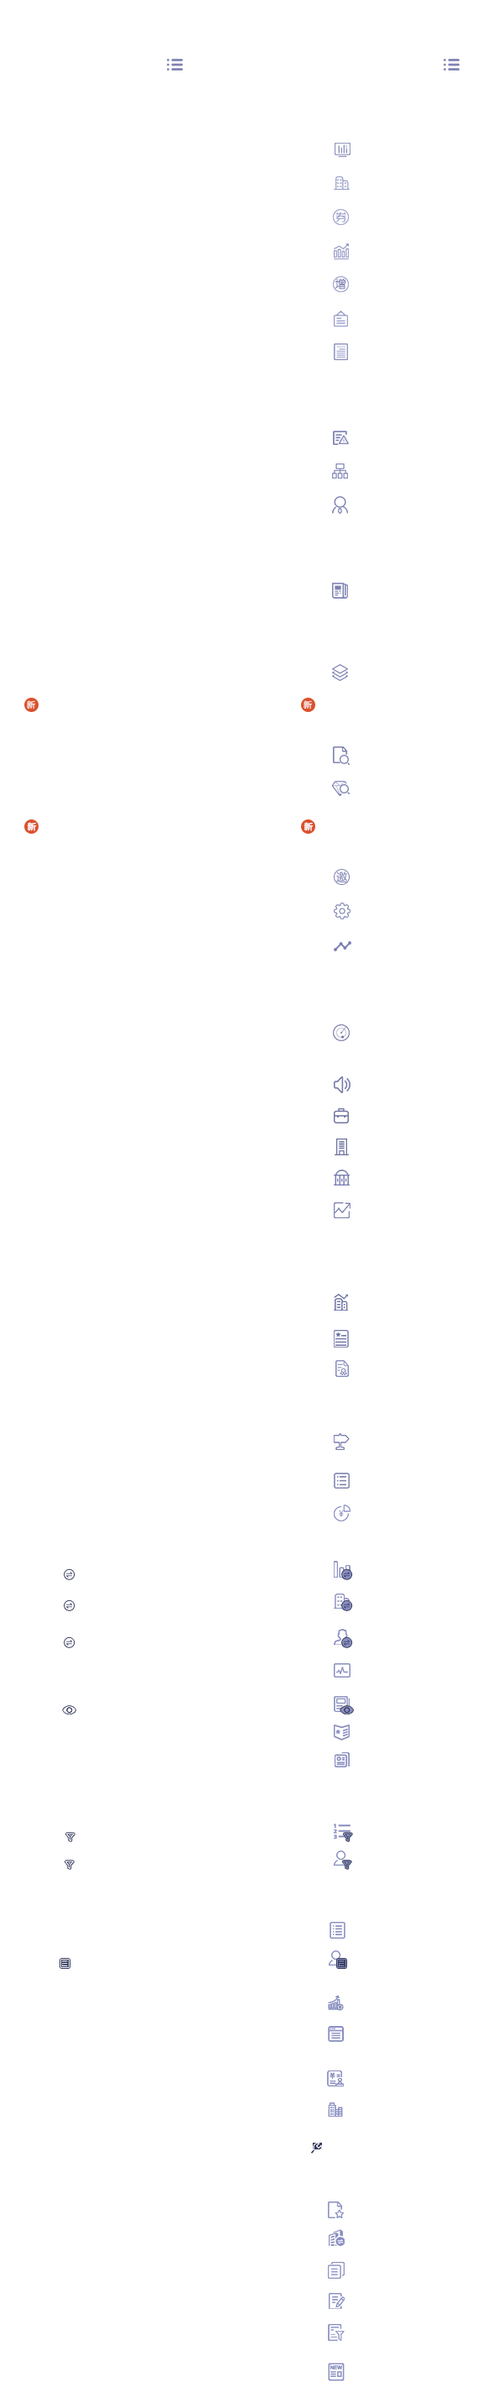
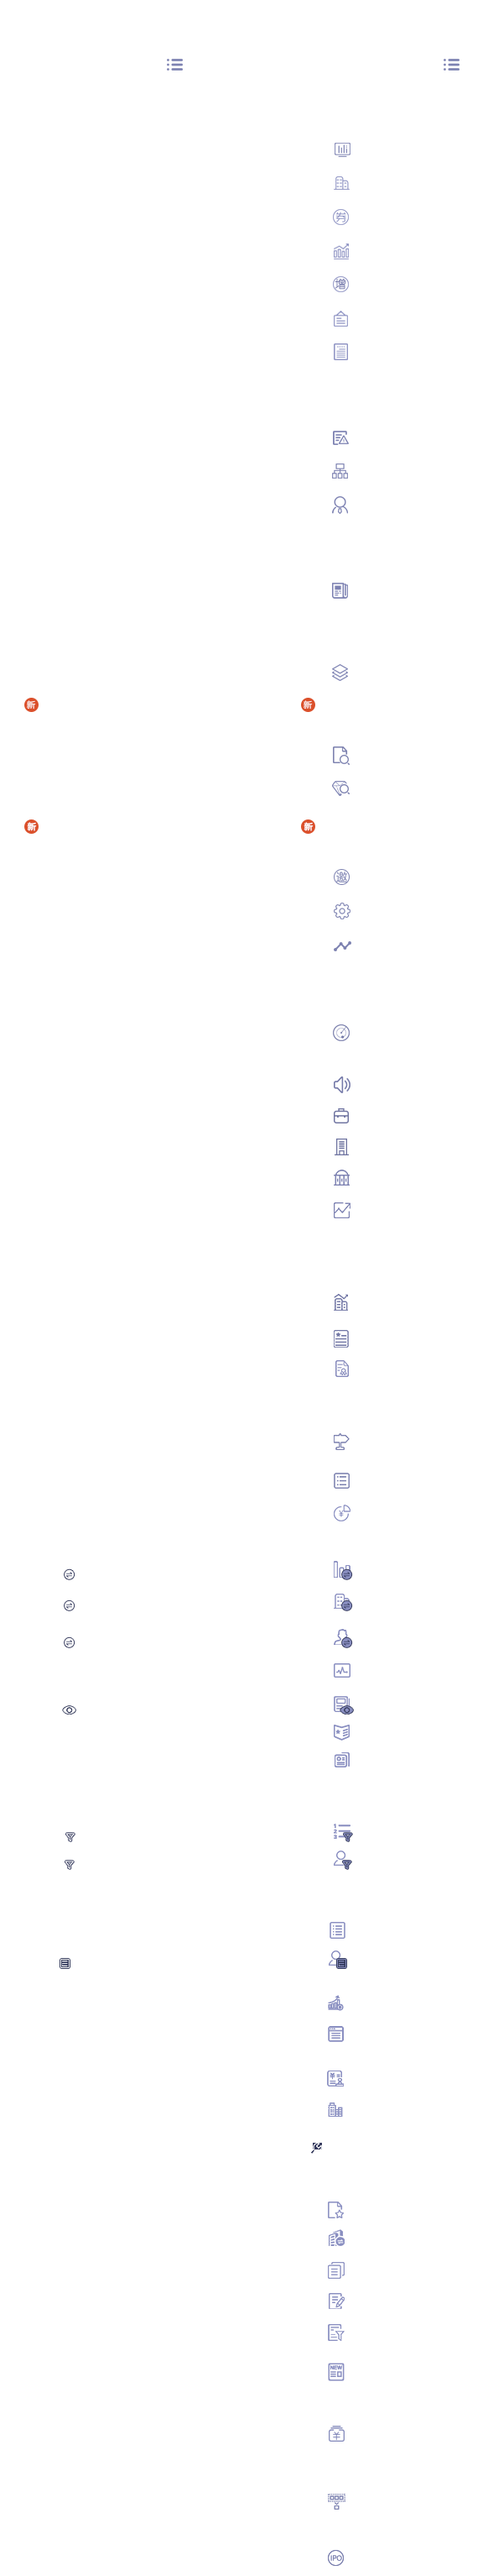
修改bug 样式

diff --git a/assets/admin/layout/css/custom.css b/assets/admin/layout/css/custom.css
@@ -188,6 +188,7 @@ input::-webkit-input-safebox-button {
 	top: 30px;
 	width:170px;
 }
+
 .codeList{left: 160px;}
 .searchList{
 	white-space:nowrap;
@@ -985,17 +986,17 @@ caption{
 }
 /*8*/
 .page-sidebar .page-sidebar-menu .sub-menu > li > a.menuTwo08{
-	background: url(../img/allicon.png) -334px -505px no-repeat;
+	background: url(../img/allicon.png) -329px -2881px no-repeat;
 }
 .page-sidebar .page-sidebar-menu .sub-menu > li.active > a.menuTwo08{
-	background:#4b4f78 url(../img/allicon.png) -4px -505px no-repeat;
+	background:#4b4f78 url(../img/allicon.png) 2px -2881px no-repeat;
 }
 .page-sidebar .page-sidebar-menu .sub-menu > li:hover a.menuTwo08{
-	background:#4b4f78 url(../img/allicon.png) -4px -505px no-repeat;
+	background:#4b4f78 url(../img/allicon.png) 2px -2881px no-repeat;
 }
 .page-sidebar .page-sidebar-menu .sub-menu > li.active:hover a.menuTwo08
 {
-	background:#4b4f78 url(../img/allicon.png) -4px -505px no-repeat;
+	background:#4b4f78 url(../img/allicon.png) 2px -2881px no-repeat;
 }
 /*9*/
 .page-sidebar .page-sidebar-menu .sub-menu > li > a.menuTwo09{
@@ -1493,6 +1494,32 @@ caption{
 .page-sidebar .page-sidebar-menu .sub-menu > li.active:hover a.myCharts{
 	background:#4b4f78 url(../img/allicon.png) -4px -2317px no-repeat;
 }
+/*并购事件*/
+.page-sidebar .page-sidebar-menu .sub-menu > li > a.mergerEvent{
+	background: url(../img/allicon.png) -333px -2963px no-repeat;
+}
+.page-sidebar .page-sidebar-menu .sub-menu > li.active > a.mergerEvent{
+	background:#4b4f78 url(../img/allicon.png) -3px -2963px no-repeat;
+}
+.page-sidebar .page-sidebar-menu .sub-menu > li:hover a.mergerEvent{
+	background:#4b4f78 url(../img/allicon.png) -3px -2963px no-repeat;
+}
+.page-sidebar .page-sidebar-menu .sub-menu > li.active:hover a.mergerEvent{
+	background:#4b4f78 url(../img/allicon.png) -3px -2963px no-repeat;
+}
+/*ipo事件*/
+.page-sidebar .page-sidebar-menu .sub-menu > li > a.ipoEvent{
+	background: url(../img/allicon.png) -332px -3030px no-repeat;
+}
+.page-sidebar .page-sidebar-menu .sub-menu > li.active > a.ipoEvent{
+	background:#4b4f78 url(../img/allicon.png) -2px -3030px no-repeat;
+}
+.page-sidebar .page-sidebar-menu .sub-menu > li:hover a.ipoEvent{
+	background:#4b4f78 url(../img/allicon.png) -2px -3030px no-repeat;
+}
+.page-sidebar .page-sidebar-menu .sub-menu > li.active:hover a.ipoEvent{
+	background:#4b4f78 url(../img/allicon.png) -2px -3030px no-repeat;
+}
 /*收起*/
 .page-sidebar-closed .page-sidebar .page-sidebar-menu.page-sidebar-menu-closed > li:hover > .sub-menu > li > a{
 	    padding-left: 35px !important;
@@ -1624,17 +1651,17 @@ caption{
 }
 /*8*/
 .page-sidebar .page-sidebar-menu-closed .sub-menu > li > a.menuTwo08{
-	background: url(../img/allicon.png) -390px -505px no-repeat;
+	background: url(../img/allicon.png) -386px -2881px no-repeat;
 }
 .page-sidebar .page-sidebar-menu-closed .sub-menu > li.active > a.menuTwo08{
-	background:#4b4f78 url(../img/allicon.png) -60px -505px no-repeat;
+	background:#4b4f78 url(../img/allicon.png) -55px -2881px no-repeat;
 }
 .page-sidebar .page-sidebar-menu-closed .sub-menu > li:hover a.menuTwo08{
-	background:#4b4f78 url(../img/allicon.png) -60px -505px no-repeat;
+	background:#4b4f78 url(../img/allicon.png) -55px -2881px no-repeat;
 }
 .page-sidebar .page-sidebar-menu-closed .sub-menu > li.active:hover a.menuTwo08
 {
-	background:#4b4f78 url(../img/allicon.png) -60px -505px no-repeat;
+	background:#4b4f78 url(../img/allicon.png) -55px -2881px no-repeat;
 }
 /*9*/
 .page-sidebar .page-sidebar-menu-closed .sub-menu > li > a.menuTwo09{
@@ -2116,6 +2143,32 @@ caption{
 .page-sidebar .page-sidebar-menu-closed .sub-menu > li.active:hover a.myCharts{
 	background:#4b4f78 url(../img/allicon.png) -56px -2317px no-repeat;
 }
+/*并购事件*/
+.page-sidebar .page-sidebar-menu-closed .sub-menu > li > a.mergerEvent{
+	background: url(../img/allicon.png) -385px -2963px no-repeat;
+}
+.page-sidebar .page-sidebar-menu-closed .sub-menu > li.active > a.mergerEvent{
+	background:#4b4f78 url(../img/allicon.png) -55px -2963px no-repeat;
+}
+.page-sidebar .page-sidebar-menu-closed .sub-menu > li:hover a.mergerEvent{
+	background:#4b4f78 url(../img/allicon.png) -55px -2963px no-repeat;
+}
+.page-sidebar .page-sidebar-menu-closed .sub-menu > li.active:hover a.mergerEvent{
+	background:#4b4f78 url(../img/allicon.png) -55px -2963px no-repeat;
+}
+/*ipo事件*/
+.page-sidebar .page-sidebar-menu-closed .sub-menu > li > a.ipoEvent{
+	background: url(../img/allicon.png) -384px -3030px no-repeat;
+}
+.page-sidebar .page-sidebar-menu-closed .sub-menu > li.active > a.ipoEvent{
+	background:#4b4f78 url(../img/allicon.png) -54px -3030px no-repeat;
+}
+.page-sidebar .page-sidebar-menu-closed .sub-menu > li:hover a.ipoEvent{
+	background:#4b4f78 url(../img/allicon.png) -54px -3030px no-repeat;
+}
+.page-sidebar .page-sidebar-menu-closed .sub-menu > li.active:hover a.ipoEvent{
+	background:#4b4f78 url(../img/allicon.png) -54px -3030px no-repeat;
+}
 .page-sidebar-menu-closed .marktingView{ left:0!important;}
 /* footer copyright */
 .login .copyright {
@@ -2331,6 +2384,15 @@ caption{
 }
 .menuOne-masterBrokes{
 	background: url(../img/zhubanquanshang.png) center center no-repeat;
+}
+.menuOne-investMoney{
+	background: url(../img/allicon.png) -41px  -2853px no-repeat;
+}
+.menuOne-merger{
+	background: url(../img/allicon.png) -41px  -2933px no-repeat;
+}
+.menuOne-ipo{
+	background: url(../img/allicon.png) -41px  -2998px no-repeat;
 }
 .datePar .fa-calendar{
 	background: url(../img/rili.png) center center no-repeat;
@@ -4279,8 +4341,8 @@ table td{
 .investComNum .investComNum-left{
 	border: 1px solid #c6d0d8;
 	background-color: #fff;
-	width: 68px;
-	height: 68px;
+	width: 58px;
+	height: 58px;
 	text-align: center;
 	display: flex;
 	justify-content: center;
@@ -4292,13 +4354,20 @@ table td{
 	background: none;
 }
 .investComNum img{
-	max-width: 64px;
-	max-height: 64px;
+	max-width: 54px;
+	max-height: 54px;
 }
 .investComNum .investComNum-detail{
 	width: 70px;
 	height: 70px;
 	border: none;
+}
+.investComNum-right .investTabBox span{
+	width: auto;
+	display: inline-block;
+	color: #333;
+	margin-right: 8px;
+	font-size: 13px;
 }
 .investComNum-detail img{
 	width: 70px;
@@ -4404,7 +4473,6 @@ table td{
     margin-right:10px; 
     border: 1px solid #C6D0D8;
     border-radius: 4px;
-    padding: 6px;
     background: #ffffff;
 }
 .investOrgBox img{

diff --git a/assets/global/scripts/companyDetail/relationshipMap.js b/assets/global/scripts/companyDetail/relationshipMap.js
@@ -1136,23 +1136,69 @@ var storyFinancing = function () {
                     var tr = "";
                     $("#storyFinancingList2").html("");
                     if (list != "") {
-	                    if(!isNullOrEmpty(list[0].date)){
-	                    	$("#storyFinancingDate").text(list[0].date);
+	                    if(!isNullOrEmpty(list[0].investmentDate)){
+	                    	$("#storyFinancingDate").text(list[0].investmentDate);
 	                    }else{
 	                    	$("#storyFinancingDate").text("--");
 	                    }
 	                    $(list).each(function (i) {
-				            tr += "<tr>";
-				            tr += "<td><a href='" + $.url.investmentAgencyDetailsUrl() + "id=" + list[i].companyId + "'>" + list[i].companyName + "</a></td>";
-				            tr += "<td>" + list[i].step + "</td>";
-				            tr += "<td>" + list[i].currencyCode + "</td>";
-				            tr += "<td>" + list[i].investmentAmount + "</td>";
-				            tr += "<td>" + list[i].registrationDate + "</td>";
-				            tr += "</tr>";
-				        });
-	                    $("#storyFinancingList2").append(tr);
-	                    var isCookie = false;
-	                    moneyUrl($(".basicName"), isCookie, "isCookie");
+			            tr += "<tr>";
+			            tr += "<td>" + list[i].investmentDate + "</td>";
+			             tr += "<td>" + list[i].invest + "</td>";
+			             tr += "<td>" + list[i].investmentAmount + "</td>";
+			             tr += "<td>" + list[i].investRatio + "</td>";
+			             tr += "<td class='investT"+i+" investEdg'><div class='investTwo'></div><div class='investAll'></div></td>";
+			            tr += "</tr>";
+			        });
+			        $("#storyFinancingList2").append(tr);
+			        //投资机构列表
+				        for (var i = 0; i < list.length; i++) {
+				            var tr2 = [];
+				            var tr3 = [];
+				            var investmentL = list[i].investmentAgency.length;
+				            for (var j = 0; j < investmentL; j++) {
+				                if (investmentL == 0 || investmentL == 1) {
+				                    if (list[i].investmentAgency[j].investorId) {
+				                        tr2 += "<a href=" + $.url.investmentAgencyDetailsUrl() + "id=" + list[i].investmentAgency[j].investorId + ">" + list[i].investmentAgency[j].investment + "</a>";
+				                    } else {
+				                        tr2 += list[i].investmentAgency[j].investment;
+				                    }
+				                } else {
+				                    if (list[i].investmentAgency[j].investorId) {
+				                    	if(list[i].investmentAgency[j].investment !=" "){
+				                    		tr2 += "<a href=" + $.url.investmentAgencyDetailsUrl() + "id=" + list[i].investmentAgency[j].investorId + ">" + list[i].investmentAgency[j].investment + "</a>/";
+				                    	}else{
+				                    		tr2 += "";
+				                    	}
+				                    } else {
+				                    	if(list[i].investmentAgency[j].investment !=" "){
+				                        	tr2 += list[i].investmentAgency[j].investment + "/";
+				                        }else{
+				                        	tr2 += "";
+				                        }
+				                    }
+				                    if(j<2){
+				                    	tr3 = tr2;
+				                    }
+				                }
+				            }
+				            if(investmentL<3){
+				            	if(investmentL ==2){
+				            		$(".investT" + i).find(".investTwo").append(tr2.substring(0,tr2.length-1));
+				            	}else{
+				            		$(".investT" + i).find(".investTwo").append(tr2);
+				            	}
+				            }else{
+				            	var tr4 = tr3.substring(0,tr3.length-1)+'...<b class="investSummary investJg">展开</b>';
+				            	$(".investT" + i).find(".investTwo").append(tr4);
+				            	$(".investT" + i).find(".investAll").append(tr2.substring(0,tr2.length-1)+'<b class="investSummary investSummaryClose investJg2">收起</b>');
+				            }
+				        }
+						$(".investEdg").each(function(){
+							if($(this).html().indexOf("/") > 0){
+								$(this).html($(this).html().substring(0,$(this).html().length-1));
+							}
+						});
 					}
                 };
 

diff --git a/assets/global/scripts/investment/investCompany.js b/assets/global/scripts/investment/investCompany.js
@@ -164,7 +164,7 @@ var InvestCompany = function(){
 	        	}
 	        	tr += "</div>";
 	        	if(isNullOrEmpty(list[i].id)){
-	        		tr += "<div class='investComNum-right'><span>" + list[i].companyName + "</span>";
+	        		tr += "<div class='investComNum-right'><span style='font-size:16px'>" + list[i].companyName + "</span>";
 	        	}else{
 	        		if(list[i].companyType == "新三板"){
 	        			tr += "<div class='investComNum-right'><a class='basicName' title='"+ list[i].name +"' data-name='"+list[i].name+"' href='"+ $.url.companyListUrl() + "id=" + list[i].id +"'>"+ list[i].companyName +"</a>";
@@ -172,10 +172,13 @@ var InvestCompany = function(){
 	        			tr += "<div class='investComNum-right'><a class='basicName' title='"+ list[i].name +"' data-name='"+list[i].name+"' href='"+ $.url.industryUrl() + "id=" + list[i].id +"'>"+ list[i].companyName +"</a>";
 		        	}
 	        	}
-	        	if(list[i].summary.length<39){
+	        	if(list[i].summary.length<9){
 	        		tr += "<span>" + list[i].summary + "</span>";
 	        	}else{
-	        		tr += "<div class='investSumBox'><span data-title='"+list[i].summary+"'>" + list[i].summary.substring(0,38) + "...<b class='investSummary investJj'>展开</b></span></div>";
+	        		tr += "<div class='investSumBox'><span data-title='"+list[i].summary+"'>" + list[i].summary.substring(0,9) + "...<b class='investSummary investJj'>展开</b></span></div>";
+	        		if(list[i].companyType == "新三板"){
+	        			tr +="<div class='investTabBox'><span>"+ list[i].companyType +"</span><span>"+ list[i].companyShortName +"</span><span>"+ list[i].code +"</span></div>"
+	        		}
 	        	};
 	        	tr += "</div></td>";
 	        	if(isNullOrEmpty(list[i].city)){
@@ -270,8 +273,8 @@ var InvestCompany = function(){
 			//简介展开收起
 			$(".investSumBox").on("click",".investJj",function(){
 				if($(this).hasClass("investSummaryClose")){
-					var cont = $(this).parent("span").attr("data-title").substring(0,38);
-					$(this).parent("span").html(cont+"...<b class='investJj'>展开</b>");
+					var cont = $(this).parent("span").attr("data-title").substring(0,9);
+					$(this).parent("span").html(cont+"...<b class='investSummary investJj'>展开</b>");
 				}else{
 					var cont = $(this).parent("span").attr("data-title");
 					$(this).parent("span").html(cont+"<b class='investSummary investJj investSummaryClose'>收起</b>");

diff --git a/templates/companyDetail/companyListDetail.html b/templates/companyDetail/companyListDetail.html
@@ -1968,8 +1968,8 @@
 															<col width="6%"/>
 															<!--<col width="8%"/>-->
 															<col width="13%"/>
-															<col width="15%"/>
-															<col width="38%"/>
+															<col width="18%"/>
+															<col width="35%"/>
 														</colgroup>
 														<thead>
 															<tr role="row" class="tr">
@@ -3513,22 +3513,29 @@
 																		<div class="portlet-body maskInTable">
 																			<div class="table-scrollable">
 																				<table class="table table-striped table-bordered table-hover dataTable no-footer" id="sample_1" role="grid" aria-describedby="sample_1_info">
+																					<colgroup>
+																						<col width="20%" />
+																						<col width="10%" />
+																						<col width="20%" />
+																						<col width="10%" />
+																						<col width="40%" />
+																					</colgroup>
 																					<thead class="view-tr">
 																						<tr class="tr">
 																							<th>
-																								投资机构
+																								融资时间
 																							</th>
 																							<th>
-																								投资轮次
-																							</th>
-																							<th>
-																								投资币种
+																								轮次
 																							</th>
 																							<th>
 																								投资金额（万元）
 																							</th>
 																							<th>
-																								投资日期
+																								比例
+																							</th>
+																							<th>
+																								投资方
 																							</th>
 																						</tr>
 																					</thead>
@@ -3650,8 +3657,8 @@
 													<table class="table table-striped table-bordered table-hover dataTable no-footer com-invest" id="sample_3" role="grid" aria-describedby="sample_3_info" style="table-layout: fixed;">
 														<colgroup>
 															<col width="10%"/>
-															<col width="20%"/>
-															<col width="60%"/>
+															<col width="35%"/>
+															<col width="45%"/>
 															<col width="10%"/>
 														</colgroup>
 														<thead>

diff --git a/templates/investment/investDetail.html b/templates/investment/investDetail.html
@@ -911,7 +911,7 @@
 										<!--下边分页结束-->
 									</div>
 									<div class="tab-pane" id="tab_6">
-										<div class="portlet-body table-scrollable maskInTable" style="height: auto;">
+										<div class="portlet-body table-scrollable maskInTable" style="height: auto;border: none;">
                                             <table class="table table-bordered table-striped table-condensed table-blue table-team">
 												<colgroup>
 													<col width="30%"/>
@@ -1212,8 +1212,8 @@
 												<table class="table table-striped table-bordered table-hover dataTable no-footer com-invest" id="sample_3" role="grid" aria-describedby="sample_3_info" style="table-layout: fixed;">
 													<colgroup>
 														<col width="10%"/>
-														<col width="20%"/>
-														<col width="60%"/>
+														<col width="35%"/>
+														<col width="45%"/>
 														<col width="10%"/>
 													</colgroup>
 													<thead>

diff --git a/assets/global/scripts/investment/investDetail.js b/assets/global/scripts/investment/investDetail.js
@@ -590,7 +590,7 @@ var InvestDetail = function(){
                         tr += "<td class='investComNum investComNum2'>";
 			        	tr += "<div class='investComNum-left investComNum-detail'>"
 			        	if(isNullOrEmpty(list[i].logo)){
-			        		tr += "<img src='../../assets/admin/layout/img/investorsUser.png'/>";
+			        		tr += "<img src='../../assets/admin/layout/img/rentou.png'/>";
 			        	}else{
 			        		tr += "<img src='"+ list[i].logo +"'/>";
 			        	}

diff --git a/templates/investment/investCompany.html b/templates/investment/investCompany.html
@@ -22,7 +22,6 @@
 		<link href="../../assets/admin/layout/css/themes/darkblue.css" rel="stylesheet" type="text/css" id="style_color" />
 		<link href="../../assets/admin/layout/css/paging.css" rel="stylesheet" type="text/css">
 		<link href="../../assets/admin/layout/css/custom.css" rel="stylesheet" type="text/css" />
-		
 		<!-- END THEME STYLES -->
 	</head>
 
